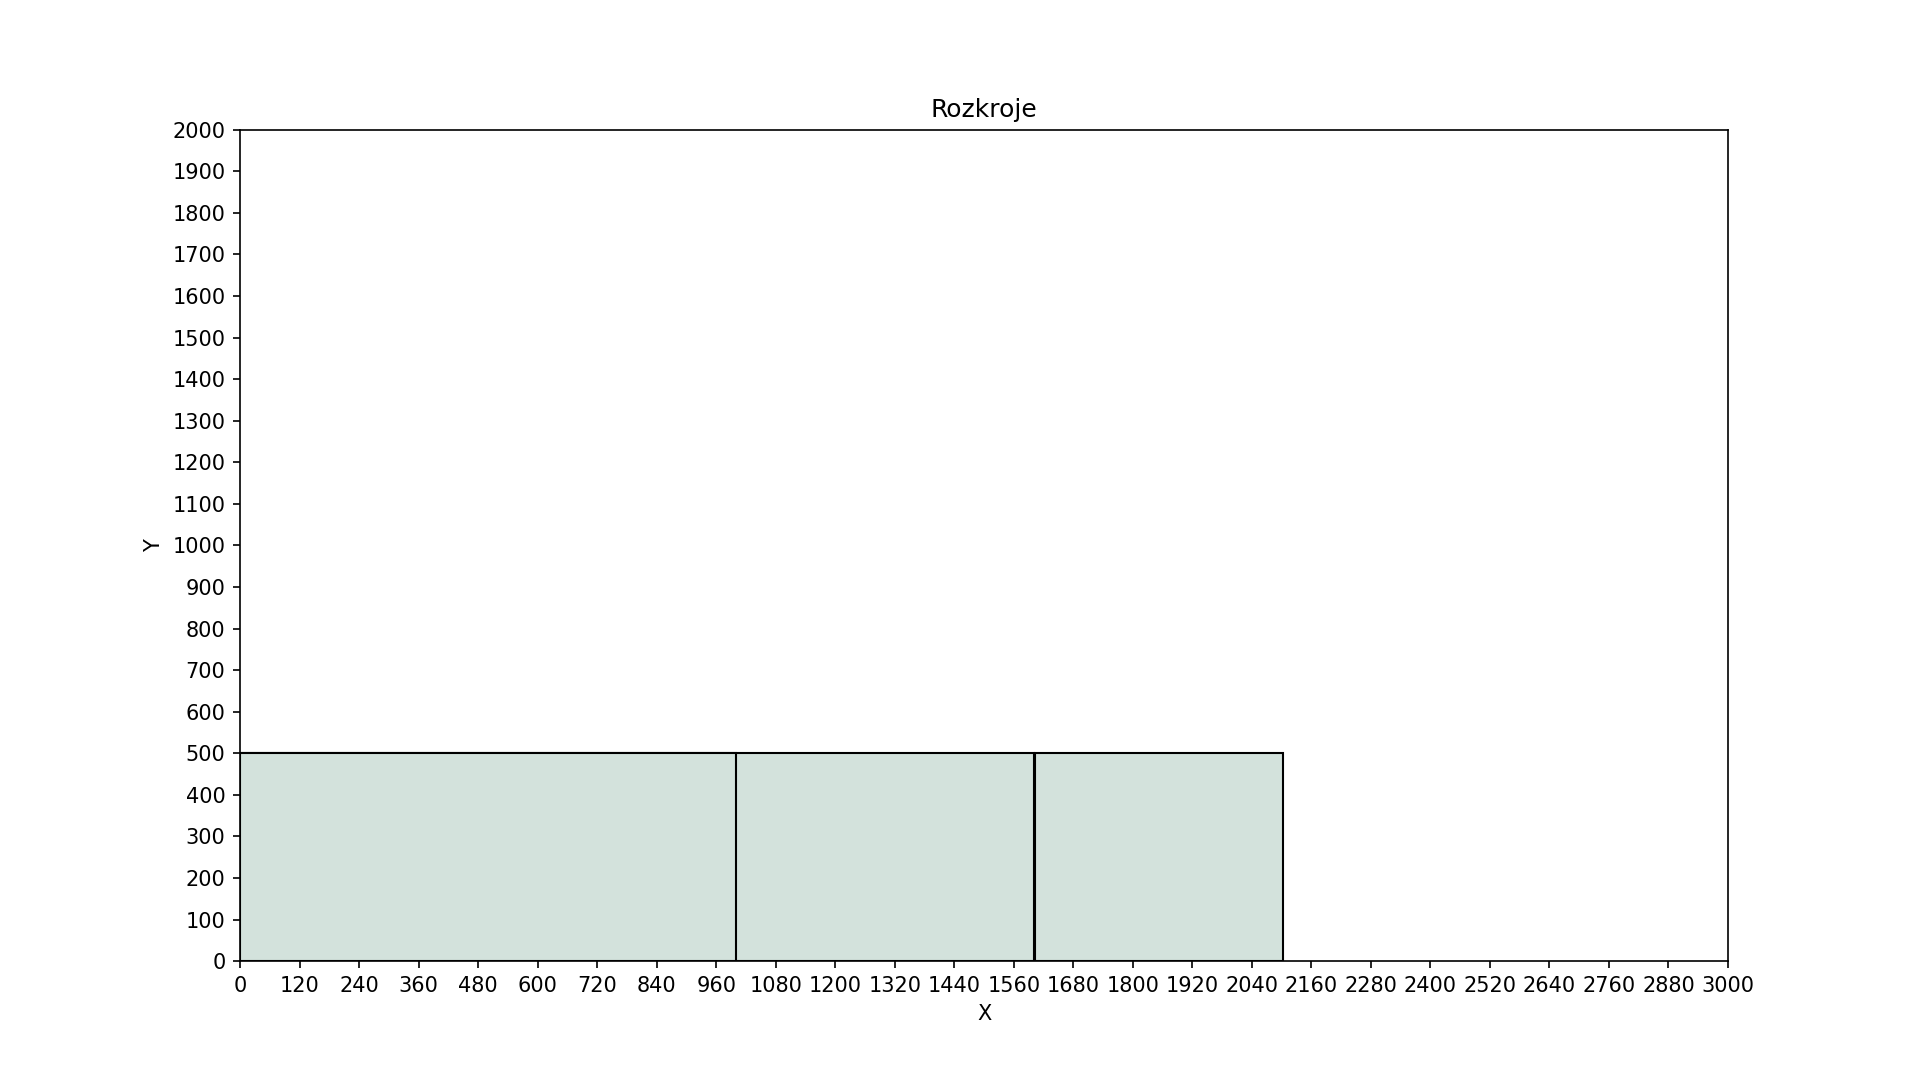
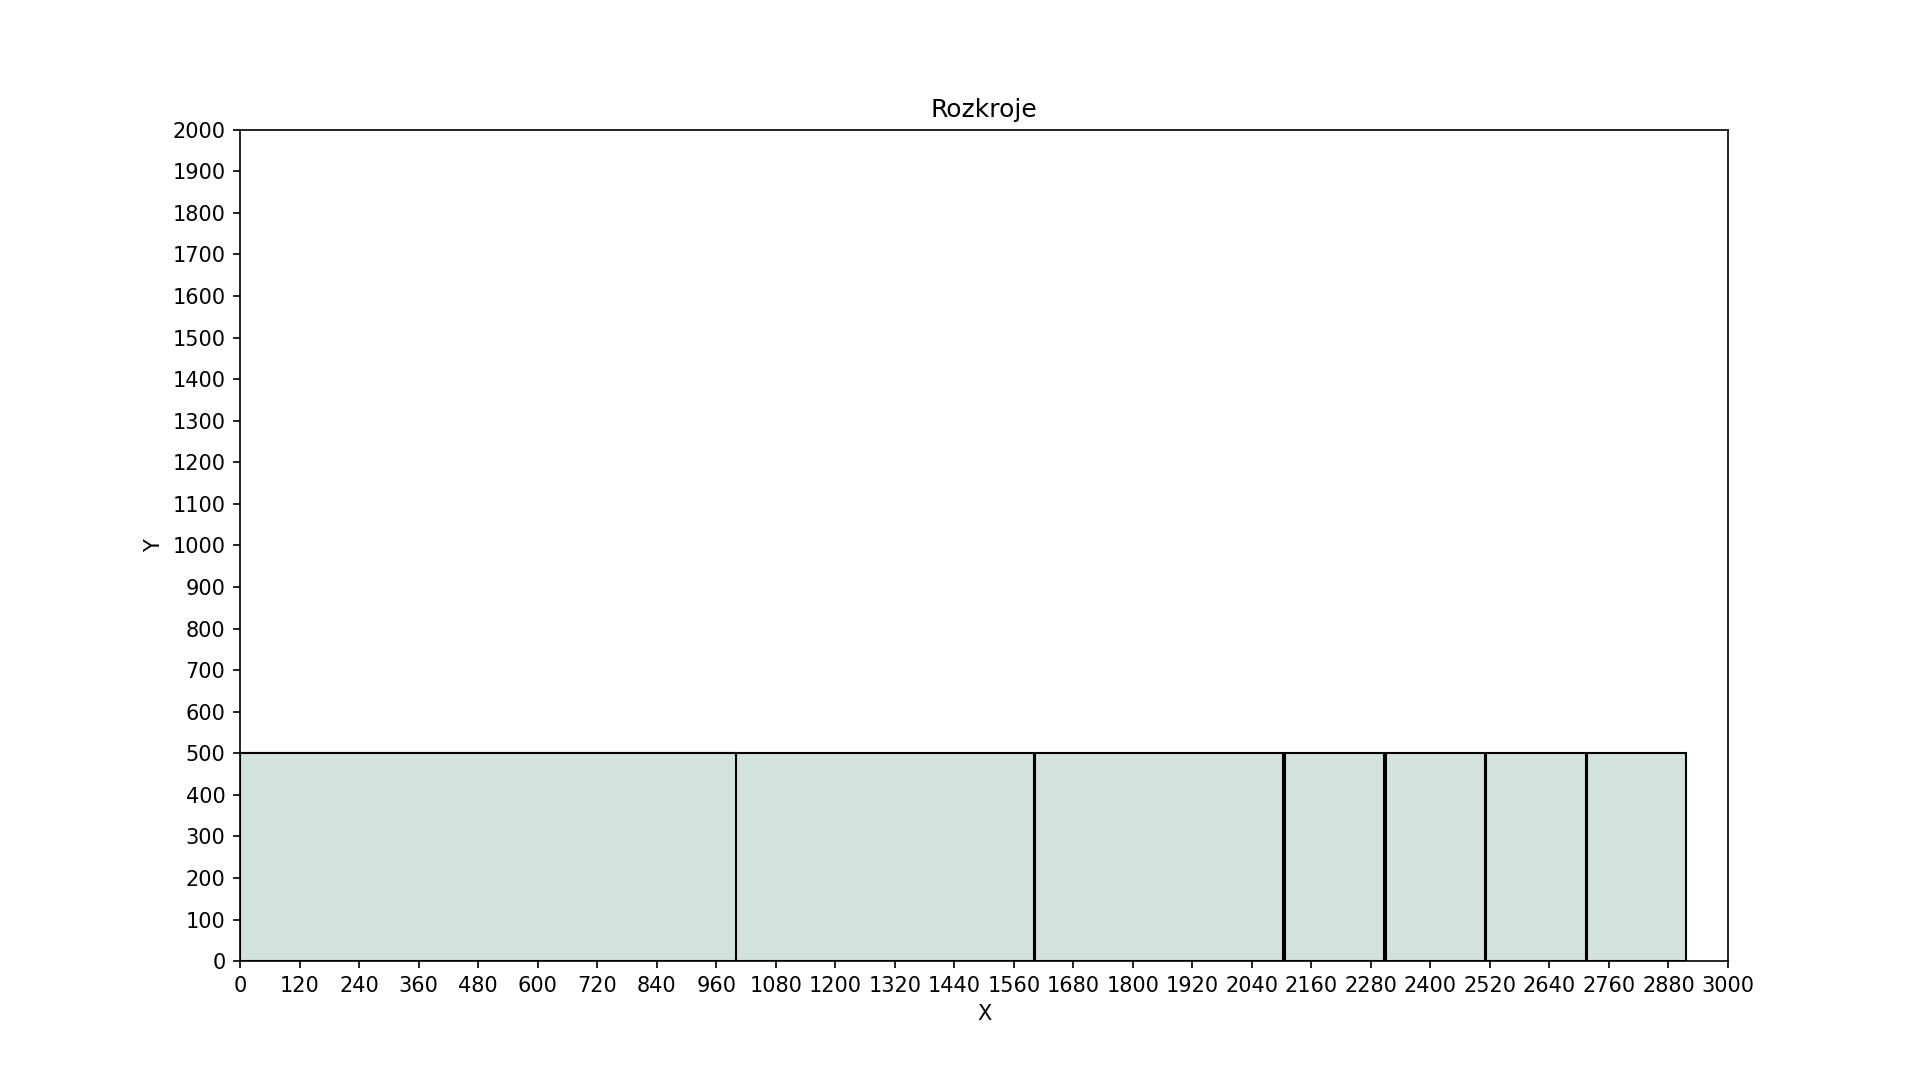
poddaje sie

Changed region(s): [[0.6562, 0.6722, 0.9062, 0.9167]]

diff --git a/AutoWood_Backend/product/cut_optimizer/wc_opt.py b/AutoWood_Backend/product/cut_optimizer/wc_opt.py
@@ -27,56 +27,44 @@ fig, ax = plt.subplots(figsize=(12.8, 7.2))
 
 class VirtualRow:
 
-    def __init__(self, X,Y,x,y):
+    def __init__(self, X, Y, x, y):
+        self.X = X  # Remaining width of the row
+        self.Y = Y  # Height of the row
+        self.start_x = x  # Starting x position
+        self.start_y = y  # Starting y position
+        self.formats = []  # List of formats placed in this row
+       
 
-        self.X = X #rozmiar rzedu X
-        self.Y = Y #rozmiar rzedu Y
-        self.start_x = x #pozycja startujaca x
-        self.start_y = y #pozycja startujaca y
-        self.formats = []
-        self.gaps = []
-
-
-    def add_gap(self,size_x, start_x, width):
+    def add_gap(self, size_x, start_x, width):
         self.gaps.append([size_x, start_x, width])
 
     def add_format(self, format_width, format_height):
-
         if len(self.formats) == 0:
-
-            self.X = self.X - format_width - SAW
-            self.start_x = 0 + format_width + SAW
-            self.formats.append([format_width,format_height, self.start_x])
-            generate_rectangle(0,0, format_width, format_height, ax)
+            # Place the first format
+            self.X -= format_width + SAW
+            self.start_x = format_width + SAW
+            self.formats.append([format_width, format_height, 0, self.start_y])
+            generate_rectangle(0, self.start_y, format_width, format_height, ax)
             return True
-
-
 
         elif format_height <= self.Y and format_width <= self.X:
-
-            self.X = self.X - format_width - SAW   
-            self.formats.append([format_width, format_height, self.start_x])
-            generate_rectangle(self.start_x,self.start_y, format_width, format_height, ax)
-            self.start_x = sum(item[0] for item in self.formats) + (len(self.formats)  * SAW)
+            # There is enough space in the current row
+            self.X -= format_width + SAW
+            generate_rectangle(self.start_x, self.start_y, format_width, format_height, ax)
+            self.formats.append([format_width, format_height, self.start_x, self.start_y])
+            self.start_x += format_width + SAW
             return True
-        
+
         else:
-            print("Not enough space in that raw. Proceed to next one >>")
-            self.add_gap(self.X, self.start_x, self.Y)
+            print("Not enough space in that row. Proceed to next one >>")
             
-
-
             return False
-    
-       
 
-   
-            
-    
     def __str__(self):
-        virtual_row_report = f"VirtualRow X: {self.X} ,Y: {self.Y}, start_x: {self.start_x} , start_y: {self.start_y}, formats: {self.formats}"
-        new_gaps = f"Gaps created: {self.gaps}"
-        return virtual_row_report+new_gaps
+
+        virtual_row_report = f"VirtualRow X: {self.X}, Y: {self.Y}, start_x: {self.start_x}, start_y: {self.start_y}, formats: {self.formats}"
+        
+        return virtual_row_report
 
 
 
@@ -94,9 +82,9 @@ def generate_board(X,Y):
 
     #project_data = get_data(id)
     #formats = convert_elements(project_data)
-    #
+    #print(formats)
 
-    formats = [[1600, 500], [500, 500], [1000,500]]
+    formats = [[1600, 500], [500, 500], [1000,500], [200,500],[200,500],[200,500],[200,500]]
 
     place_elements(formats)
     #print(formats)
@@ -123,7 +111,7 @@ def convert_elements(project_data):
         starting_x = 0
         starting_y = 0
 
-        row = [length, width, starting_x, starting_y]
+        row = [length, width]
 
         for _ in range(int(quantity)):
             formats.append(row)
@@ -132,10 +120,18 @@ def convert_elements(project_data):
     return formats
 
 def generate_rectangle(start_position_x, start_position_y, width, height, ax):
-
-    rect = patches.Rectangle(xy=(start_position_x,start_position_y), width=width, height=height, edgecolor='black', facecolor='#d3e2dc', antialiased=True, linewidth=None)
+    rect = patches.Rectangle(
+        xy=(start_position_x, start_position_y),
+        width=width,
+        height=height,
+        edgecolor='black',
+        facecolor='#d3e2dc',
+        antialiased=True,
+        linewidth=None
+    )
     ax.add_patch(rect)
-    print(f"Placing rectangle in X:{start_position_x},Y:{start_position_y} format size:  X: {width} Y:{height}" )
+    print(f"Placing rectangle in X:{start_position_x}, Y:{start_position_y} format size: X: {width} Y: {height}")
+
 
     #text_x = start_position_x + width / 2
     #text_y = start_position_y + height / 2
@@ -143,33 +139,48 @@ def generate_rectangle(start_position_x, start_position_y, width, height, ax):
 
 
 def place_elements(formats):
-
-    print(formats)
-
-    vrs = []
-    gaps = []
-    placed = False
-    i=0
-
-    vr1 = VirtualRow(3000, 500, 0, 0)
+    vrs = []  # List of all VirtualRows (including gaps)
+    current_y_position = 0  # Keep track of the Y position for each new row
+    current_vr = VirtualRow(3000, 500, 0, current_y_position)  # Initial row
+    vrs.append(current_vr)
 
     while formats:
-        format = formats.pop(0)
-        width = format[0]
-        height = format[1]
+        width, height = formats.pop(0)
+        placed = False
 
-        placed = vr1.add_format(width, height)
+        # Try placing the format in any existing VirtualRow (including gaps)
+        for vr in vrs:
+            placed = vr.add_format(width, height)
+            if placed:
+                break  # Stop if the format fits in any existing row
 
+        # If the format could not be placed in any existing VirtualRow
         if not placed:
+            if current_vr.X > 0:
+                # Save the current row's remaining space as a gap (new VirtualRow)
+                new_gap_vr = VirtualRow(current_vr.X, current_vr.Y, current_vr.start_x, current_vr.start_y)
+                vrs.append(new_gap_vr)
+
+            # Move to the next row (increment the Y position by the current row height)
+            current_y_position += current_vr.Y + SAW
+
+            # Create a new VirtualRow for the next row
+            new_vr = VirtualRow(3000, 500, 0, current_y_position)  # Adjust Y position for new row
+            vrs.append(new_vr)
             
-            
+            # Place the format in the new VirtualRow
+            for vr in vrs:
+                placed = vr.add_format(width, height)
+                if placed:
+                    break  # Stop if the format fits in any existing row
 
-  
+    # Visualization: After all formats are placed
+    for vr in vrs:
+        print(vr)
 
-    
+    return vrs
 
 
-    return 0
 
 
 generate_board(X,Y)

diff --git a/AutoWood_Backend/product/cut_optimizer/moje.py b/AutoWood_Backend/product/cut_optimizer/moje.py
@@ -1,0 +1,159 @@
+import os
+import sys
+
+sys.path.append(os.path.dirname(os.path.dirname(os.path.dirname(os.path.abspath(__file__)))))
+
+from product.pdf_generator_scripts.pdf_generator import get_data
+from product.cut_optimizer.helpers import set_ticks
+import matplotlib.pyplot as plt
+import matplotlib.patches as patches
+import numpy as np
+
+
+X = 3000
+Y = 2000
+SAW = 3.2
+
+X_IN = X / 25.4
+Y_IN = Y / 25.4
+
+id = 62
+
+output_dir = f"/home/dylan/AutoWood/AutoWood_Backend/product/cut_optimizer/optimized_cuts/{id}"
+optc_name = f"optc_{id}.png"
+file_path = os.path.join(output_dir, optc_name)
+fig, ax = plt.subplots(figsize=(12.8, 7.2))
+
+
+class VirtualRow:
+
+    def __init__(self, X,Y,x,y):
+
+        self.X = X #rozmiar rzedu X
+        self.Y = Y #rozmiar rzedu Y
+        self.start_x = x #pozycja startujaca x
+        self.start_y = y #pozycja startujaca y
+        self.formats = []
+        self.gaps = []
+
+
+    def add_gap(self,size_x, start_x, width):
+        self.gaps.append([size_x, start_x, width])
+
+    def add_format(self, format_width, format_height):
+
+        if len(self.formats) == 0:
+
+            self.X = self.X - format_width - SAW
+            self.start_x = 0 + format_width + SAW
+            self.formats.append([format_width,format_height, self.start_x])
+            generate_rectangle(0,0, format_width, format_height, ax)
+            return True
+
+
+
+        elif format_height <= self.Y and format_width <= self.X:
+
+            self.X = self.X - format_width - SAW   
+            self.formats.append([format_width, format_height, self.start_x])
+            generate_rectangle(self.start_x,self.start_y, format_width, format_height, ax)
+            self.start_x = sum(item[0] for item in self.formats) + (len(self.formats)  * SAW)
+            return True
+        
+        else:
+            print("Not enough space in that raw. Proceed to next one >>")
+            self.add_gap(self.X, self.start_x, self.Y)
+            
+
+
+            return False
+    
+       
+    def __str__(self):
+        virtual_row_report = f"VirtualRow X: {self.X} ,Y: {self.Y}, start_x: {self.start_x} , start_y: {self.start_y}, formats: {self.formats}"
+        new_gaps = f"Gaps created: {self.gaps}"
+        return virtual_row_report+new_gaps
+
+
+
+def generate_board(X,Y):
+
+    ax.set_xlim(0, X)
+    ax.set_ylim(0, Y)
+    ax.set_xlabel('X')
+    ax.set_ylabel('Y')
+    ax.set_title("Rozkroje")
+    x_ticks = set_ticks(X, 120)
+    y_ticks = set_ticks(Y, 100)
+    ax.set_xticks(x_ticks)
+    ax.set_yticks(y_ticks)
+
+    #project_data = get_data(id)
+    #formats = convert_elements(project_data)
+    #
+
+    formats = [[1600, 500], [500, 500], [1000,500]]
+
+    place_elements(formats)
+    #print(formats)
+
+    
+
+    plt.savefig(file_path, format='png', dpi=150)
+
+    
+
+
+def convert_elements(project_data):
+
+    elements = project_data["elements"]
+
+    formats = []
+
+
+    for element in elements:
+        length = element['element']['dimX']
+        width = element['element']['dimY']
+        #thickness = element['element']['dimZ'] wyÄąâ€šĂ„â€¦czyÄąâ€šĂ„â„˘Äąâ€ş chwilowo gruboÄąâ€şĂ„â€ˇi
+        quantity = element['quantity']
+        starting_x = 0
+        starting_y = 0
+
+        row = [length, width, starting_x, starting_y]
+
+        for _ in range(int(quantity)):
+            formats.append(row)
+
+    formats.sort(reverse=True)
+    return formats
+
+def generate_rectangle(start_position_x, start_position_y, width, height, ax):
+
+    rect = patches.Rectangle(xy=(start_position_x,start_position_y), width=width, height=height, edgecolor='black', facecolor='#d3e2dc', antialiased=True, linewidth=None)
+    ax.add_patch(rect)
+    print(f"Placing rectangle in X:{start_position_x},Y:{start_position_y} format size:  X: {width} Y:{height}" )
+
+    #text_x = start_position_x + width / 2
+    #text_y = start_position_y + height / 2
+    #ax.text(text_x, text_y, '{width} x {height}',width,height, ha='center', va='center', fontsize=10, color='black')
+
+
+def place_elements(formats):
+
+    print(formats)
+
+    vrs = []
+    gaps = []
+    current_vr = VirtualRow(X, 500, 0, 0)
+    vrs.append(current_vr)
+    
+
+    vr1 = VirtualRow(3000, 500, 0, 0)
+
+    while formats:
+        width, height = formats.pop(0)
+        placed = False
+
+
+
+    return 0
